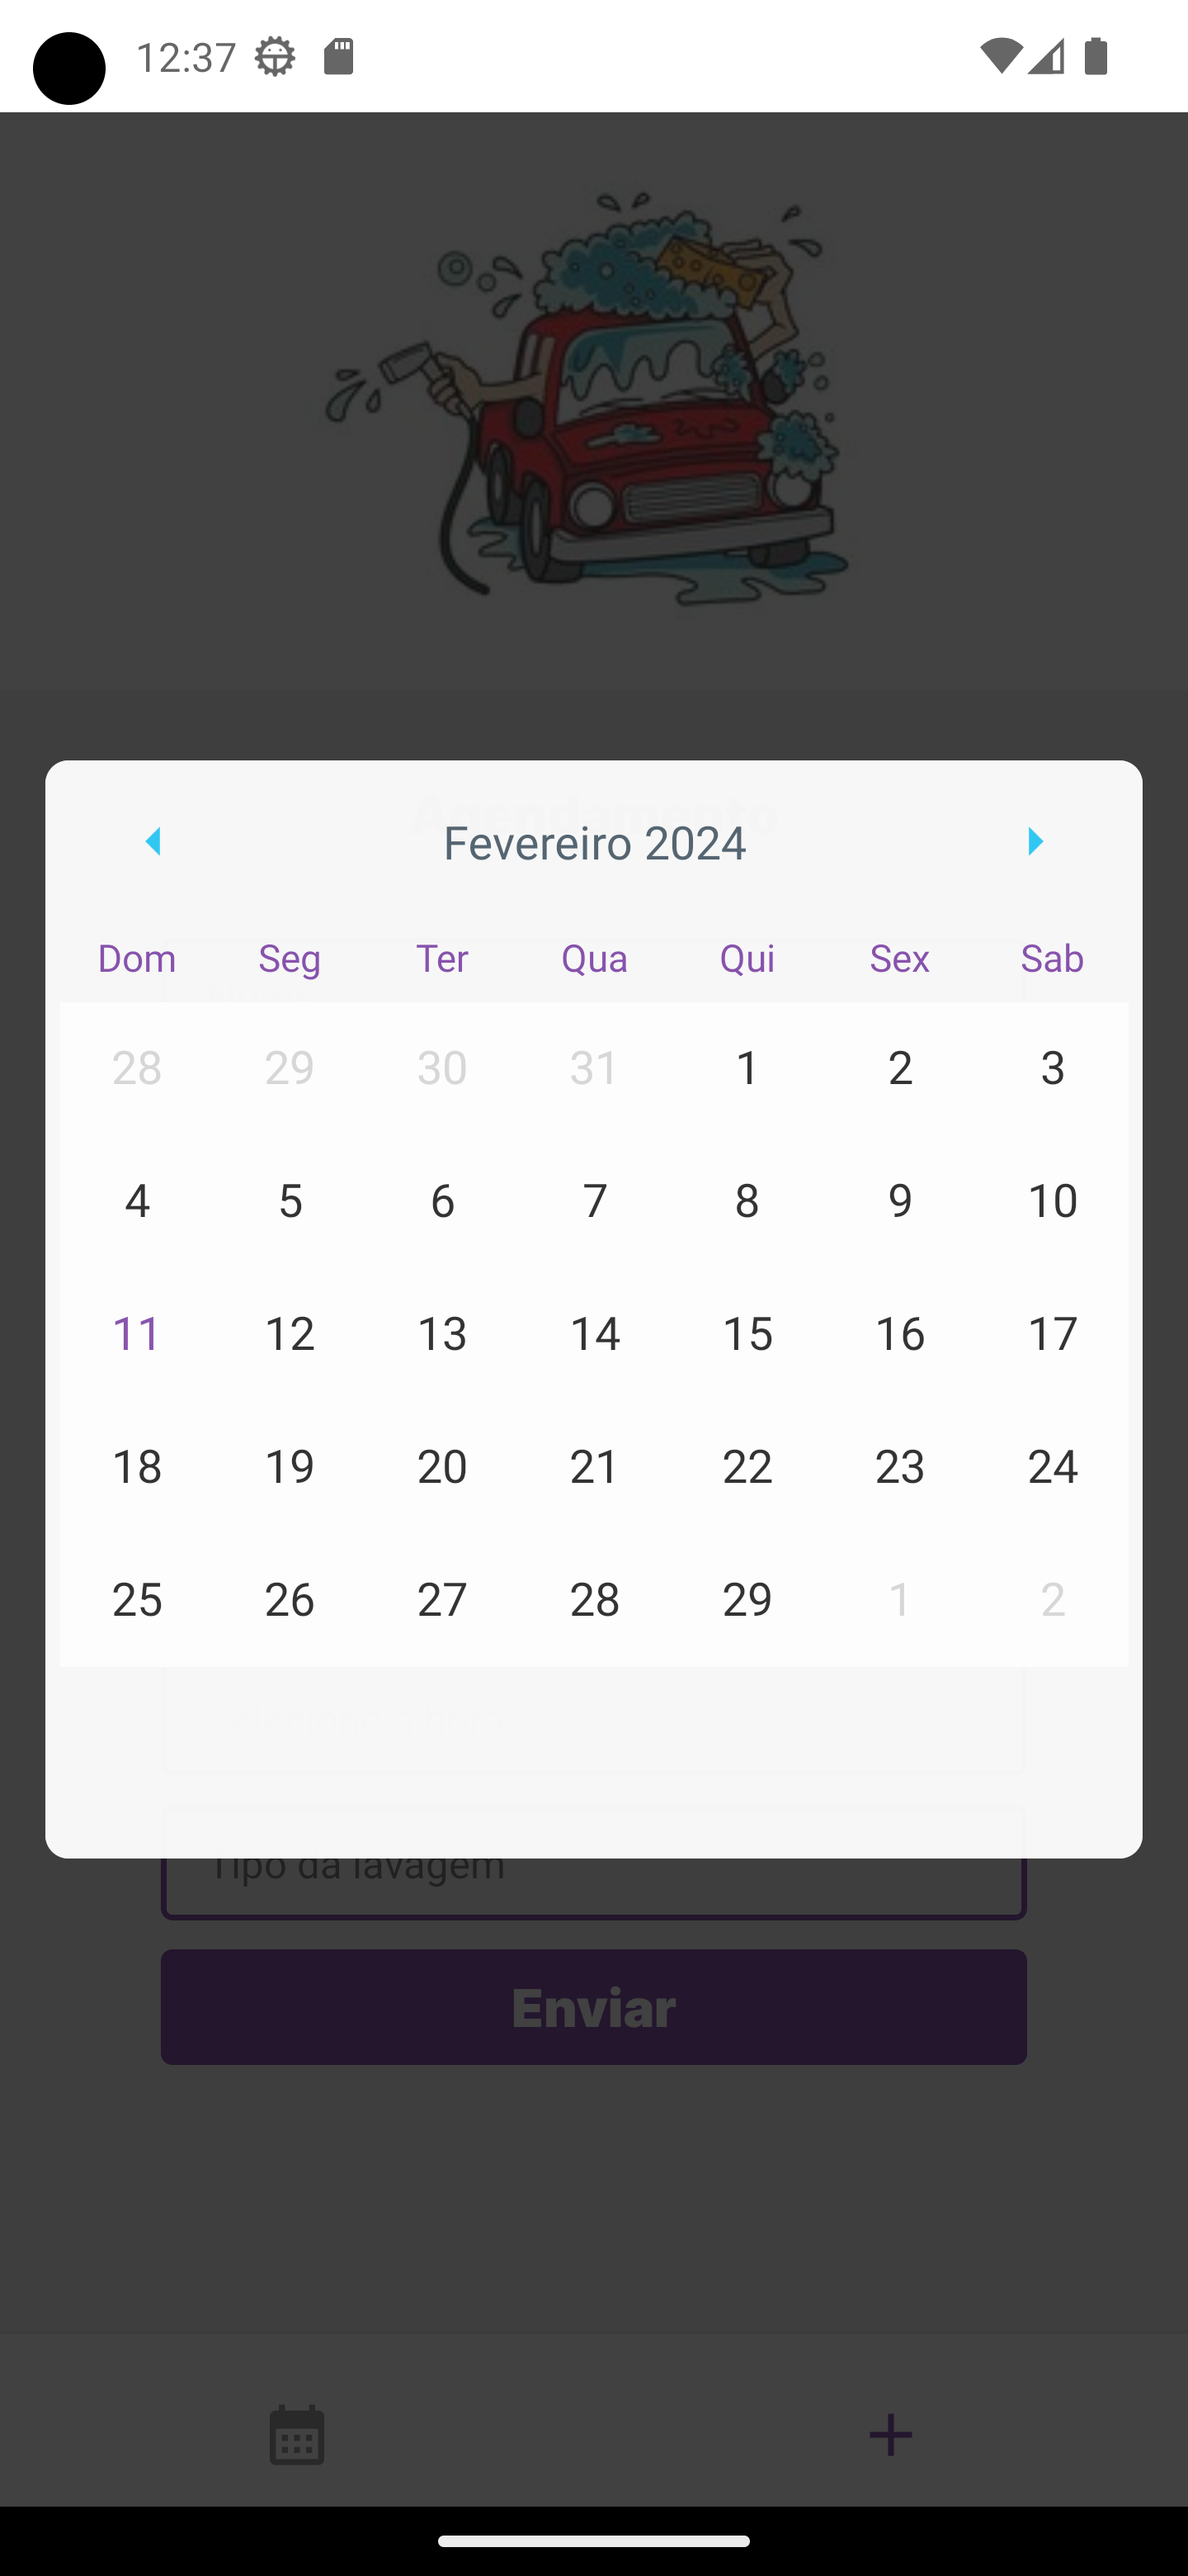
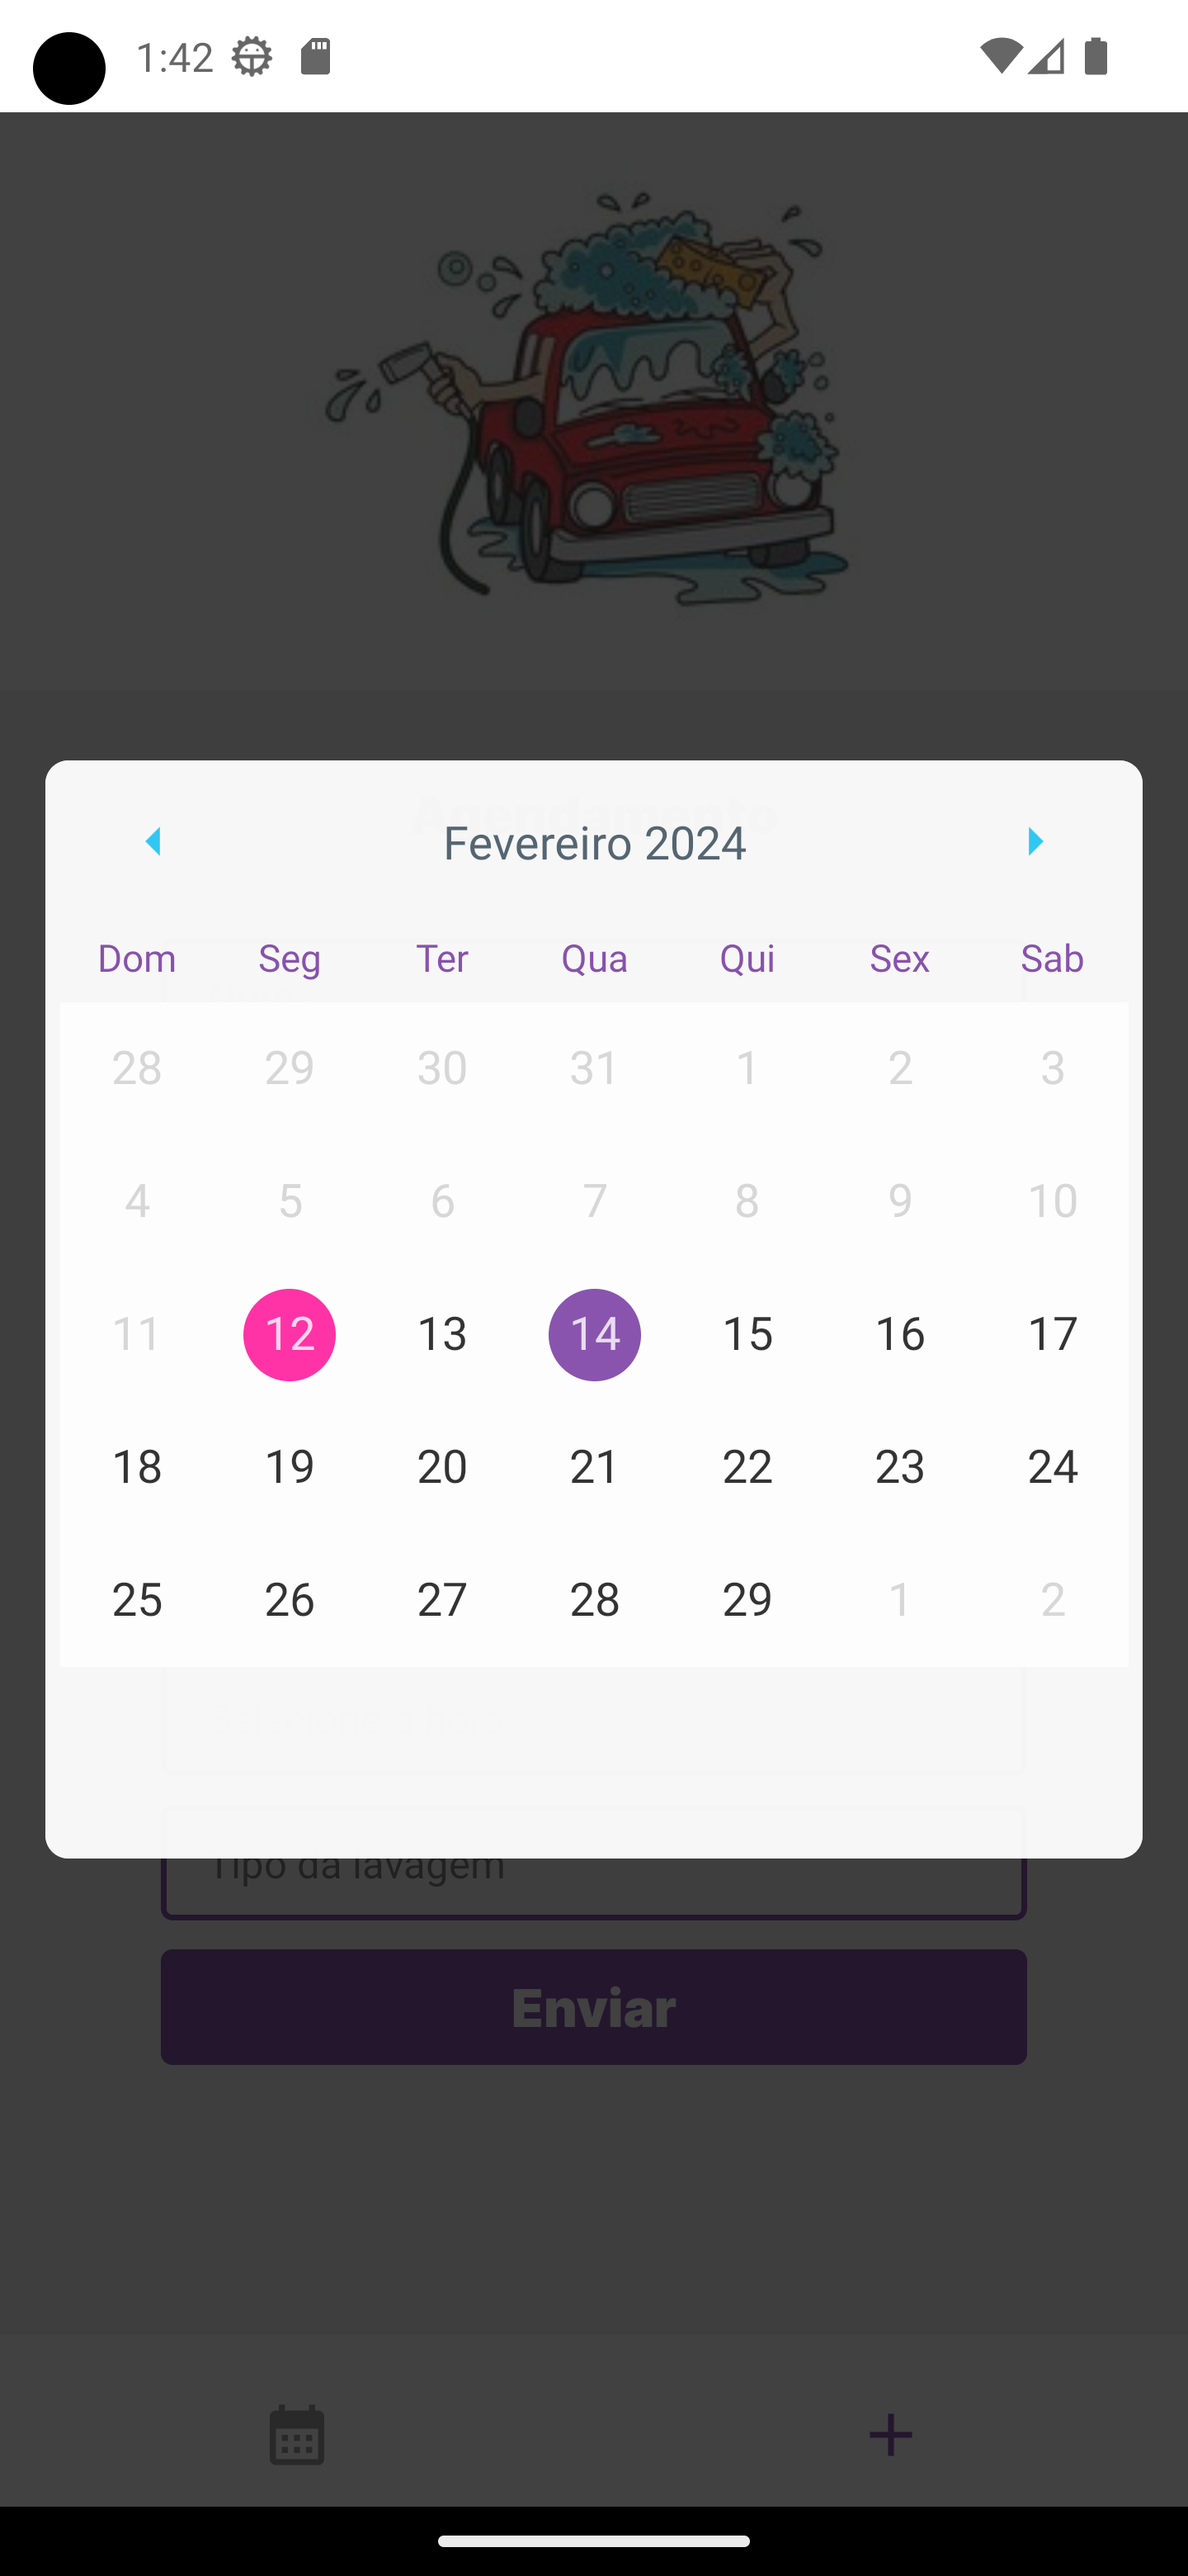
Update images

diff --git a/src/components/CustomCalendar/index.tsx b/src/components/CustomCalendar/index.tsx
@@ -1,4 +1,3 @@
-import { useState } from "react";
 import { Modal, View } from "react-native";
 import { Calendar, LocaleConfig } from "react-native-calendars";
 import { styles } from "./styles";
@@ -49,11 +48,10 @@ LocaleConfig.defaultLocale = "pt";
 
 interface CustomCalendarProps {
   onDayPress: (day: any) => void;
+  selected: string;
 }
 
-export function CustomCalendar({ onDayPress }: CustomCalendarProps) {
-  const [selected, setSelected] = useState("");
-
+export function CustomCalendar({ onDayPress, selected }: CustomCalendarProps) {
   return (
     <Modal animationType="fade" transparent>
       <View style={styles.container}>
@@ -65,7 +63,8 @@ export function CustomCalendar({ onDayPress }: CustomCalendarProps) {
               textSectionTitleColor: "#6b299a",
               selectedDayBackgroundColor: "#6b299a",
               selectedDayTextColor: "#ffffff",
-              todayTextColor: "#6b299a",
+              todayTextColor: "#fff",
+              todayBackgroundColor: "#ff0090",
               dayTextColor: "#000",
               textDisabledColor: "#cdcdcd",
             }}
@@ -81,6 +80,9 @@ export function CustomCalendar({ onDayPress }: CustomCalendarProps) {
                 disableTouchEvent: true,
               },
             }}
+            minDate={`${new Date()}`}
+            initialDate={`${new Date()}`}
+            disableAllTouchEventsForDisabledDays
           />
         </View>
       </View>

diff --git a/src/app/(tabs)/newSchedule.tsx b/src/app/(tabs)/newSchedule.tsx
@@ -65,6 +65,7 @@ export type NewScheduleProps = z.infer<typeof schema>;
 export default function NewSchedule() {
   const [isDatePickerOpen, setIsDatePickerOpen] = useState(false);
   const [isTimePickerOpen, setIsTimePickerOpen] = useState(false);
+  const [selected, setSelected] = useState("");
 
   const { createScheduling } = useSchedules();
   const { addScheduling, schedules } = useSchedulingStore();
@@ -147,6 +148,7 @@ export default function NewSchedule() {
 
   const datePickerHandler = (selectedDate: any) => {
     setIsDatePickerOpen(false);
+    setSelected(selectedDate.dateString);
     const dateSelected = new Date(selectedDate.dateString);
 
     if (dateSelected.getDay() === 5 || dateSelected.getDay() === 6) {
@@ -243,7 +245,10 @@ export default function NewSchedule() {
         )}
 
         {isDatePickerOpen && (
-          <CustomCalendar onDayPress={(day) => datePickerHandler(day)} />
+          <CustomCalendar
+            onDayPress={(day) => datePickerHandler(day)}
+            selected={selected}
+          />
         )}
 
         <Controller
